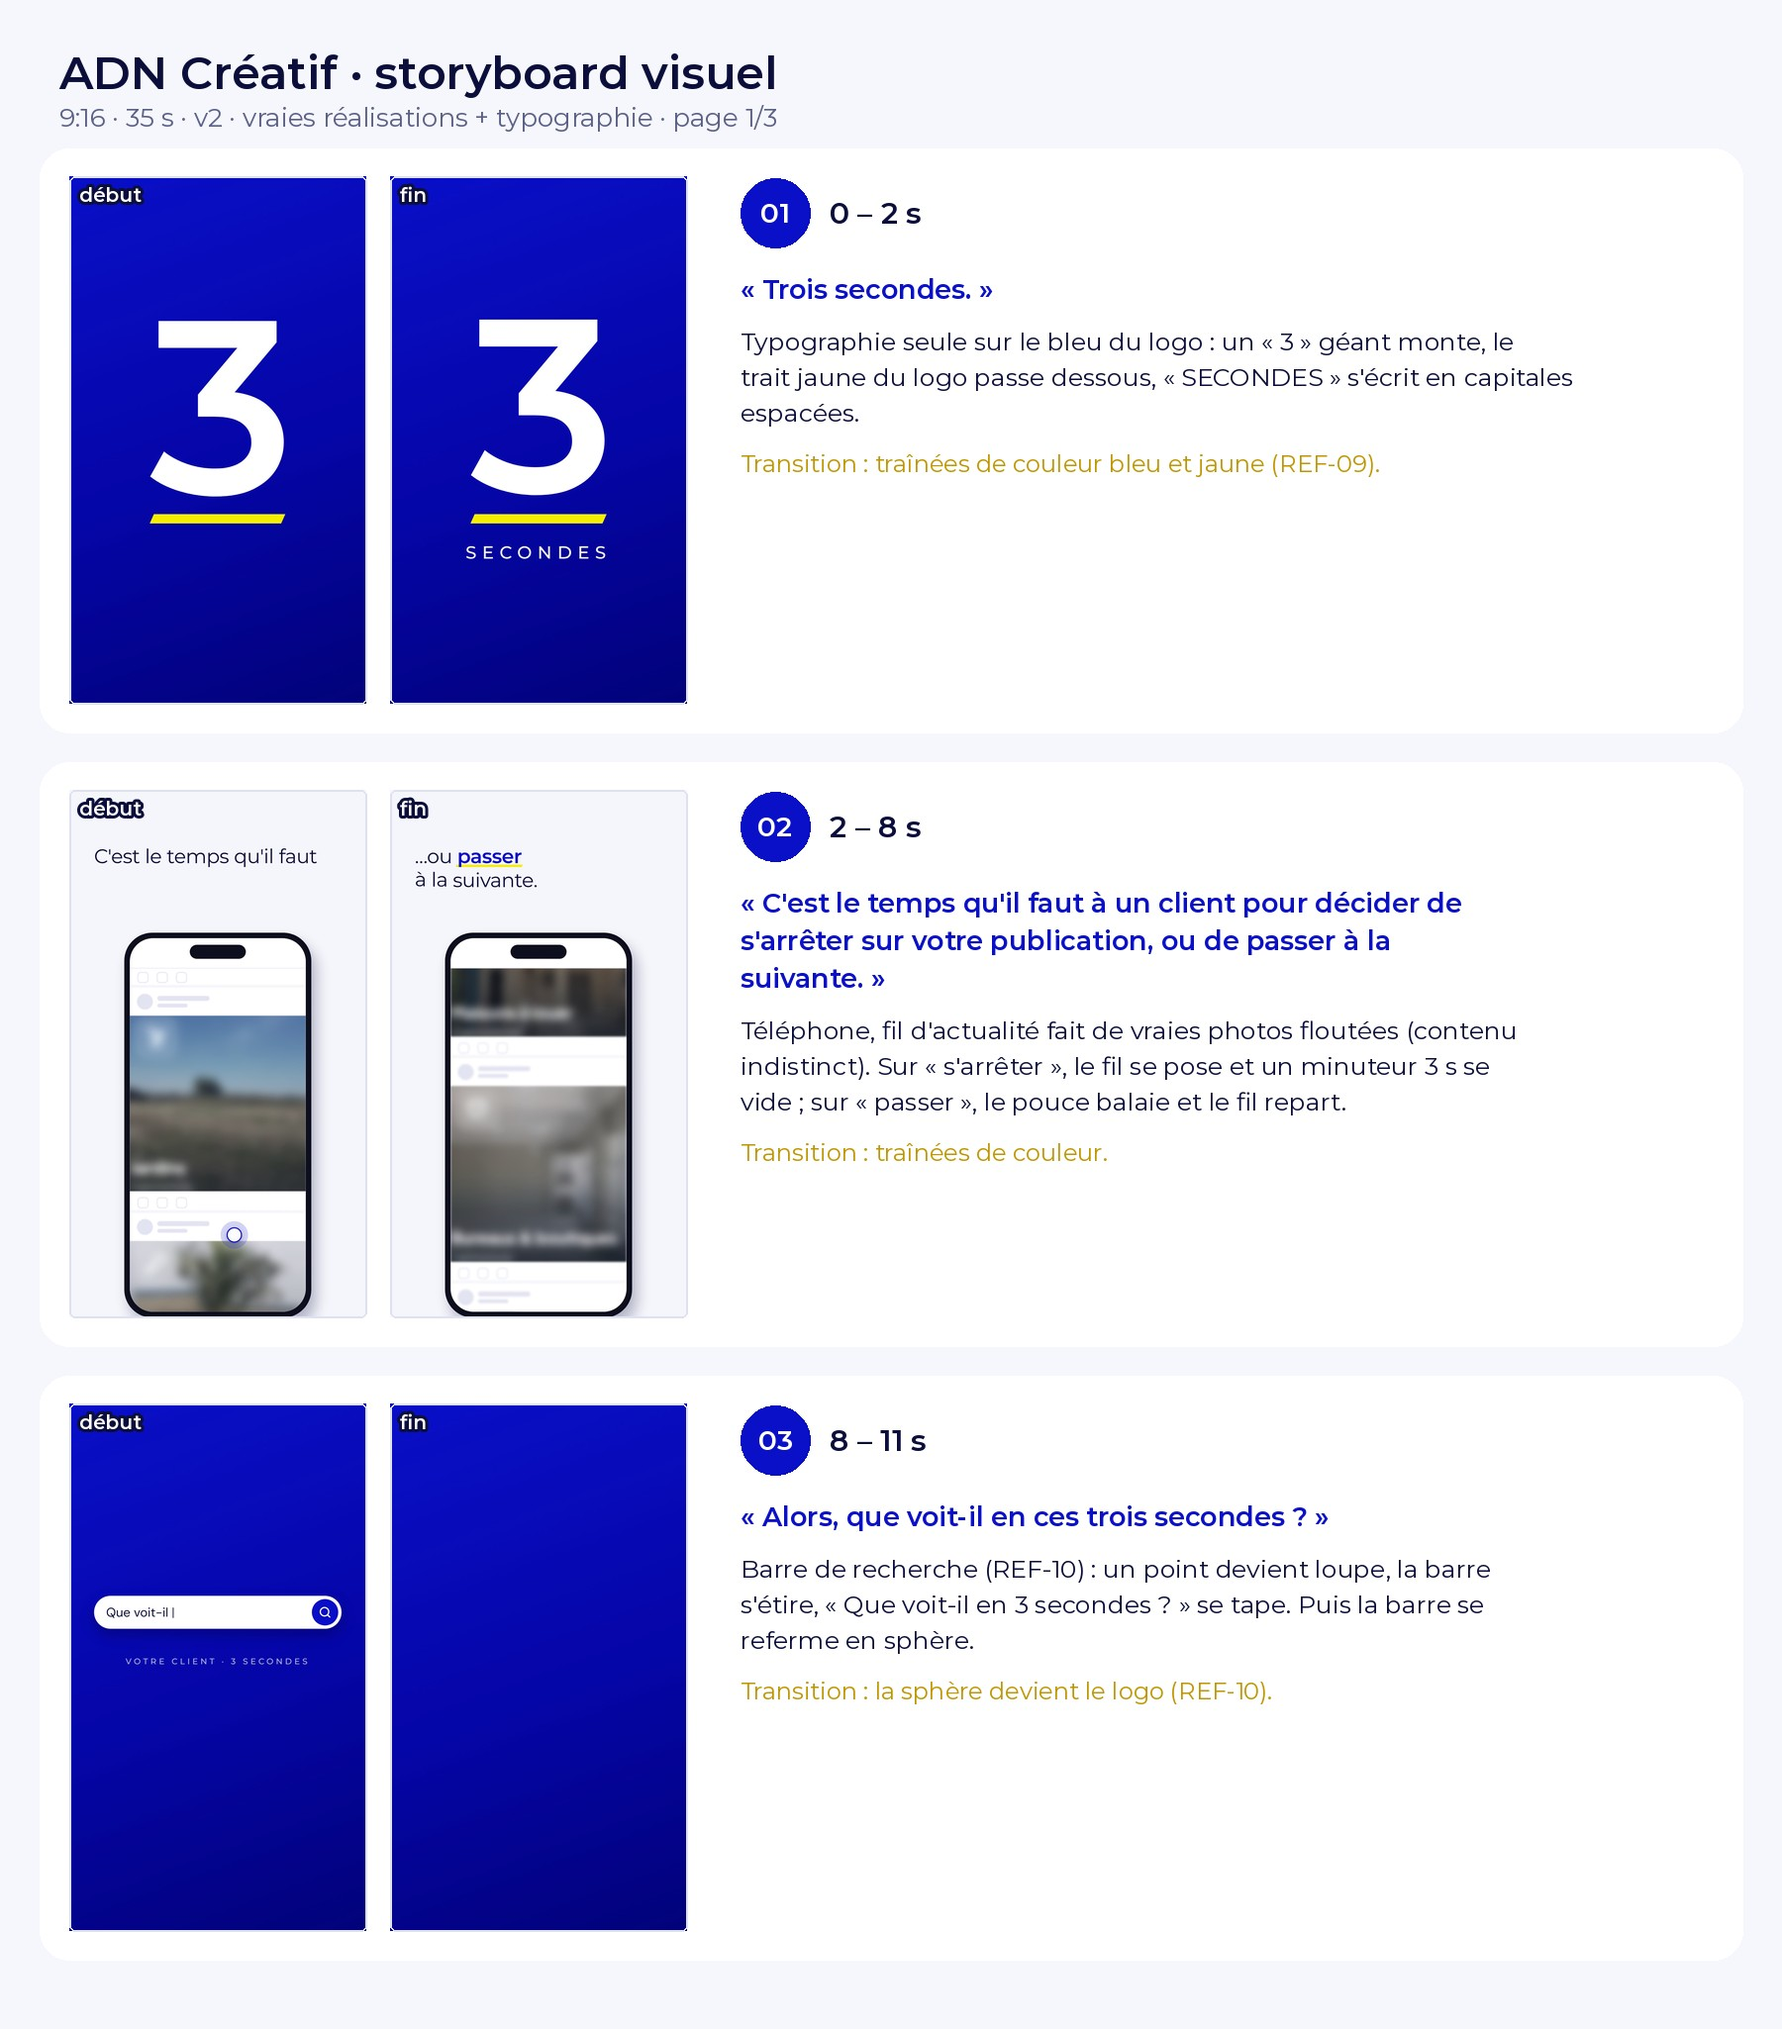
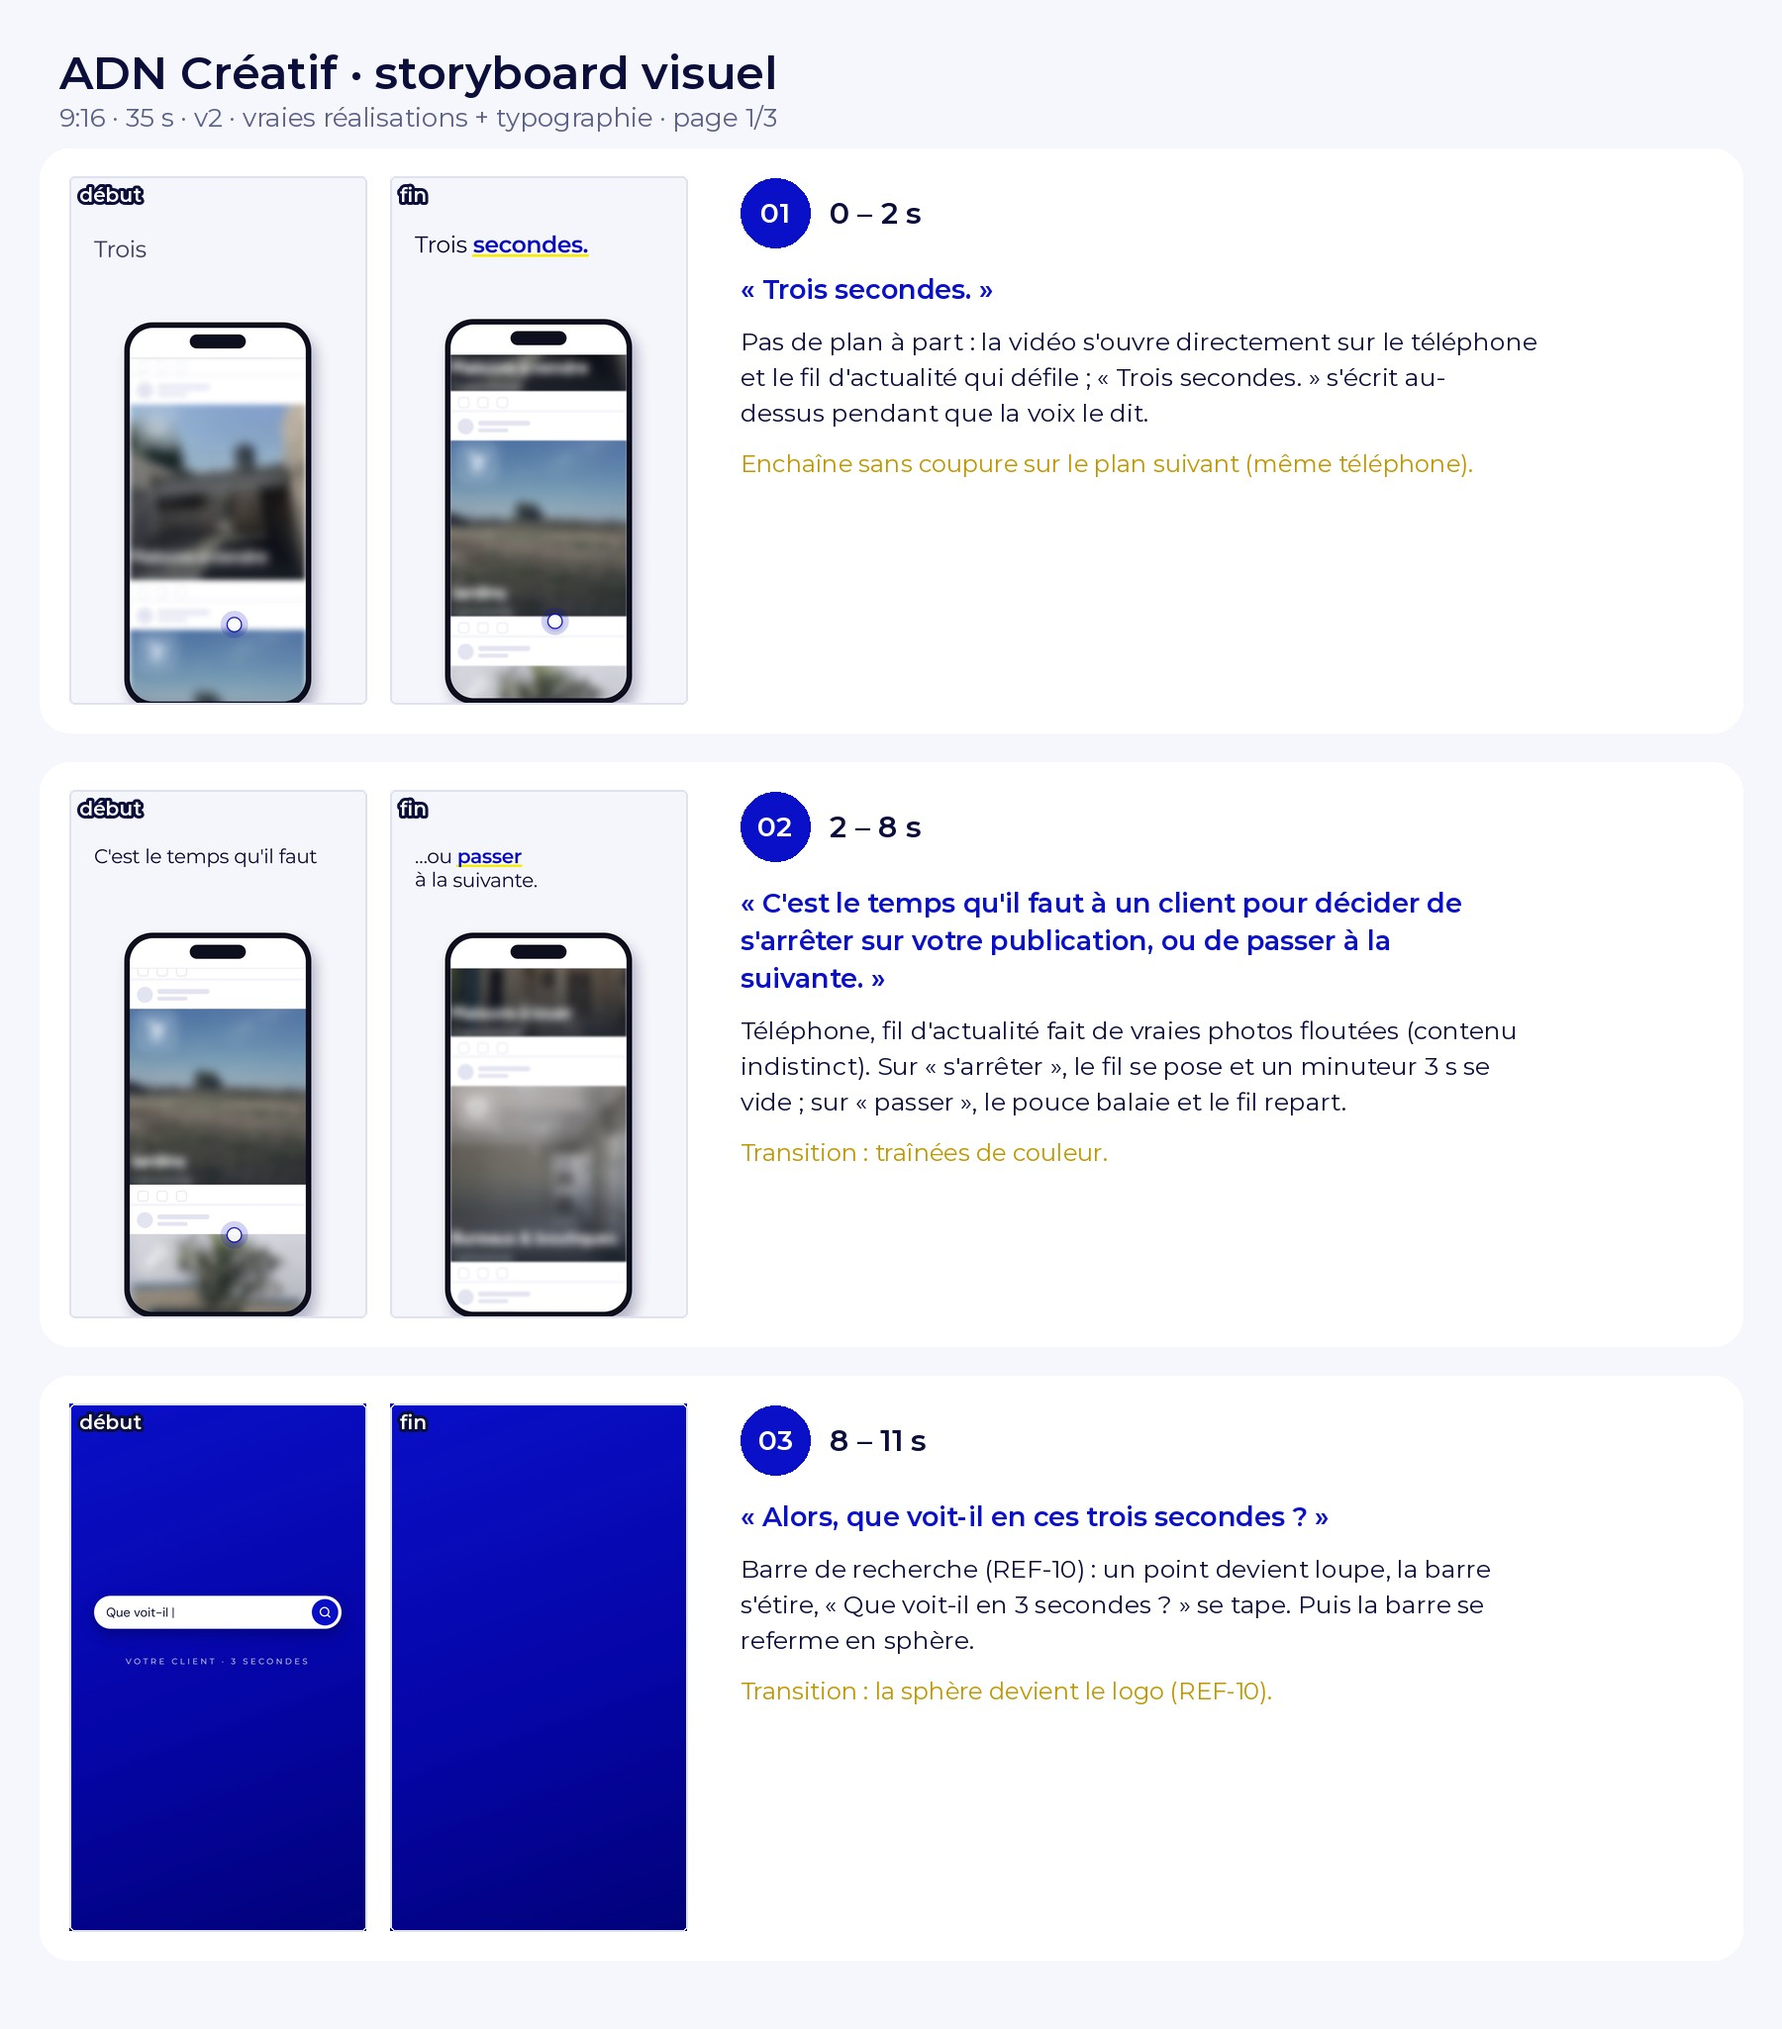
ADN Créatif : ouverture directe sur le fil, vraies affiches ADN (plan 04 et accordéon), plus de chiffre géant
Claude-Session: https://claude.ai/code/session_01Xjhu3ogamcFfekHqPkLUiU

Changed region(s): [[0.0311, 0.0624, 0.8711, 0.3434], [0.0622, 0.5307, 0.1867, 0.6556], [0.0622, 0.4683, 0.1244, 0.4995]]

diff --git a/video/src/adn/scenes.tsx b/video/src/adn/scenes.tsx
@@ -102,8 +102,8 @@ const Name: React.FC<{ f: number; at: number; size?: number; color?: string }> =
 
 // Publication du fil : photo réelle floutée (contenu indistinct, qu'on fait défiler) ou vraie réalisation ADN.
 const POST_H = 820;
-const FeedPost: React.FC<{ w: number; img?: string; children?: React.ReactNode }> = ({ w, img, children }) => (
-  <div style={{ width: w, height: POST_H, background: C.white, borderBottom: `10px solid ${C.paper}` }}>
+const FeedPost: React.FC<{ w: number; img?: string; ratio?: number; children?: React.ReactNode }> = ({ w, img, ratio = 1, children }) => (
+  <div style={{ width: w, height: POST_H + w * (ratio - 1), background: C.white, borderBottom: `10px solid ${C.paper}` }}>
     <div style={{ display: 'flex', alignItems: 'center', gap: 16, padding: '22px 26px' }}>
       <div style={{ width: 58, height: 58, borderRadius: 58, background: C.line }} />
       <div>
@@ -111,7 +111,7 @@ const FeedPost: React.FC<{ w: number; img?: string; children?: React.ReactNode }
         <div style={{ width: 110, height: 14, borderRadius: 7, background: C.line, marginTop: 10 }} />
       </div>
     </div>
-    <div style={{ position: 'relative', width: w, height: w, overflow: 'hidden', background: C.line }}>
+    <div style={{ position: 'relative', width: w, height: w * ratio, overflow: 'hidden', background: C.line }}>
       {children ?? <Img src={staticFile(img!)} style={{ width: '100%', height: '100%', objectFit: 'cover', filter: 'blur(14px) saturate(0.55) brightness(1.08)', transform: 'scale(1.15)' }} />}
     </div>
     <div style={{ display: 'flex', gap: 30, padding: '22px 28px' }}>
@@ -146,13 +146,13 @@ const STOP_AT = 132;
 const SKIP_AT = 192;
 const feedY = (f: number) => {
   const stop = 3 * POST_H - 40;
-  if (f < STOP_AT) return t(f, CUT.feed - 6, STOP_AT, 0, 1, ease.out) * stop;
+  if (f < STOP_AT) return t(f, 0, STOP_AT, 0, 1, ease.out) * stop;
   if (f < SKIP_AT) return stop;
   return stop + t(f, SKIP_AT, SKIP_AT + 20, 0, 1, ease.inOut) * POST_H * 1.6 + Math.max(0, f - SKIP_AT - 20) * 14;
 };
 
 export const S2: React.FC<P> = ({ f }) => {
-  if (f < CUT.feed - 2 || f > CUT.question + 2) return null;
+  if (f > CUT.question + 2) return null;
   const pw = 680;
   const sw = pw * 0.94;
   const y = feedY(f);
@@ -161,9 +161,10 @@ export const S2: React.FC<P> = ({ f }) => {
   const swipe = t(f, SKIP_AT - 4, SKIP_AT + 8);
   return (
     <AbsoluteFill style={{ background: C.paper }}>
+      <Title f={f} top={200} size={84} out={v(1.05)} lines={[{ text: 'Trois *secondes.*', at: v(0.1) }]} />
       <Title f={f} top={200} size={72} out={SKIP_AT - 8} lines={[{ text: "C'est le temps qu'il faut", at: v(1.45) }, { text: 'pour *s’arrêter*…', at: STOP_AT - 8 }]} />
       <Title f={f} top={200} size={72} lines={[{ text: '…ou *passer*', at: SKIP_AT }, { text: 'à la suivante.', at: SKIP_AT + 12 }]} />
-      <div style={{ position: 'absolute', left: W / 2 - pw / 2, top: 520 + (1 - sp(f, CUT.feed - 4, 'doux')) * 900 }}>
+      <div style={{ position: 'absolute', left: W / 2 - pw / 2, top: 520 + (1 - sp(f, 0, 'doux')) * 900 }}>
         <Phone w={pw}>
           <div style={{ position: 'absolute', left: 0, top: 110 - y, filter: `blur(${Math.min(10, vel * 0.25)}px)` }}>
             {FEED.map((img, i) => (
@@ -181,7 +182,7 @@ export const S2: React.FC<P> = ({ f }) => {
             </div>
           ) : null}
         </Phone>
-        <Touch x={pw / 2 + 60} y={1100 - swipe * 420} press={f >= STOP_AT && f < SKIP_AT ? 1 : swipe} visible={t(f, CUT.feed, CUT.feed + 8) * (1 - t(f, SKIP_AT + 10, SKIP_AT + 16))} />
+        <Touch x={pw / 2 + 60} y={1100 - swipe * 420} press={f >= STOP_AT && f < SKIP_AT ? 1 : swipe} visible={t(f, 6, 14) * (1 - t(f, SKIP_AT + 10, SKIP_AT + 16))} />
       </div>
     </AbsoluteFill>
   );
@@ -219,7 +220,7 @@ const HOLD = v(14.4);
 export const S4: React.FC<P> = ({ f }) => {
   if (f < CUT.logo - 12 || f > CUT.services + 2) return null;
   const up = t(f, BUILD - 14, BUILD + 4, 0, 1, ease.inOut);
-  const phoneIn = sp(f, HOLD - 18, 'doux');
+  const phoneIn = sp(f, BUILD + 20, 'doux');
   const hold = sp(f, HOLD, 'pose');
   const pw = 600;
   return (
@@ -230,25 +231,13 @@ export const S4: React.FC<P> = ({ f }) => {
       <div style={{ position: 'absolute', left: interpolate(up, [0, 1], [540 - 300, 240]), top: interpolate(up, [0, 1], [1060, 145]), transform: `scale(${interpolate(up, [0, 1], [1, 0.8])})`, transformOrigin: 'left top' }}>
         <Name f={f} at={CUT.logo + 12} size={100} />
       </div>
-      {/* mot géant (REF-09) : « 3 SECONDES » qu'on fabrique */}
-      <div style={{ position: 'absolute', left: 90, top: 340, fontFamily: FONT.title, color: C.white, opacity: 1 - t(f, HOLD - 16, HOLD - 6) }}>
-        <div style={{ fontSize: 56, fontWeight: 400 }}>
-          <Typed f={f} at={BUILD} text="On fabrique ces" step={1.4} caret={false} />
-        </div>
-        <div style={{ display: 'flex', alignItems: 'baseline', gap: 26, marginTop: 10 }}>
-          <span style={{ fontSize: 330, fontWeight: 600, lineHeight: 1, display: 'inline-block', transform: `translateY(${(1 - sp(f, BUILD + 20, 'pose')) * 200}px)`, opacity: t(f, BUILD + 20, BUILD + 26) }}>3</span>
-          <span style={{ fontSize: 110, fontWeight: 600, letterSpacing: -2, position: 'relative' }}>
-            <Typed f={f} at={BUILD + 26} text="secondes" step={1.6} caret={false} />
-            <span style={{ position: 'absolute', left: 0, bottom: 6, height: 14, width: `${t(f, BUILD + 36, BUILD + 50) * 100}%`, background: C.yellow, transform: 'skewX(-20deg)', zIndex: -1 }} />
-          </span>
-        </div>
-      </div>
+      <Title f={f} onBlue top={330} size={70} out={HOLD + 60} lines={[{ text: 'On fabrique', at: BUILD }, { text: 'ces *3 secondes*', at: BUILD + 9 }]} />
       {/* la vraie réalisation ADN dans le fil : le spot Gestion Chantiers arrête le pouce */}
-      <div style={{ position: 'absolute', left: W / 2 - pw / 2, top: 560 + (1 - phoneIn) * 1500 }}>
+      <div style={{ position: 'absolute', left: W / 2 - pw / 2, top: 600 + (1 - phoneIn) * 1500 }}>
         <Phone w={pw}>
           <div style={{ position: 'absolute', left: 0, top: 110 }}>
-            <FeedPost w={pw * 0.94}>
-              {f >= HOLD - 20 ? <OffthreadVideo src={staticFile('adn/spot-gc.mp4')} startFrom={30} muted style={{ width: '100%', height: '100%', objectFit: 'cover' }} /> : <div />}
+            <FeedPost w={pw * 0.94} ratio={1.25}>
+              <Img src={staticFile('adn/affiche-1.jpg')} style={{ width: '100%', height: '100%', objectFit: 'cover' }} />
             </FeedPost>
             <FeedPost w={pw * 0.94} img="adn/feed-2.jpg" />
           </div>
@@ -276,7 +265,7 @@ const RECAP = v(19.4) + 30;
 const Volet: React.FC<{ i: number; f: number }> = ({ i, f }) => {
   if (i === 0) {
     // affiches Gestion Chantiers qui se succèdent
-    const imgs = ['gc-S1.jpg', 'gc-S4.jpg', 'gc-S10.jpg'];
+    const imgs = ['affiche-2.jpg', 'affiche-4.jpg', 'affiche-1.jpg'];
     const k = Math.min(2, Math.max(0, Math.floor((f - SVC[0].at) / 16)));
     return (
       <AbsoluteFill>

diff --git a/video/src/adn/Adn.tsx b/video/src/adn/Adn.tsx
@@ -1,13 +1,12 @@
 // Spot ADN Créatif 9:16 (≈ 35 s) sur la voix off validée « 3 secondes ».
 import { AbsoluteFill, Audio, Sequence, staticFile, useCurrentFrame } from 'remotion';
-import { S1, S2, S3, S4, S5, S6, S7, S8, Streaks } from './scenes';
+import { S2, S3, S4, S5, S6, S7, S8, Streaks } from './scenes';
 import { C, CUT, VOICE_AT } from './theme';
 
 export const Adn = () => {
   const f = useCurrentFrame();
   return (
     <AbsoluteFill style={{ background: C.paper }}>
-      <S1 f={f} />
       <S2 f={f} />
       <S3 f={f} />
       <S4 f={f} />
@@ -16,7 +15,7 @@ export const Adn = () => {
       <S7 f={f} />
       <S8 f={f} />
       {/* traînées de couleur (REF-09) sur les changements de plan bleu ↔ blanc */}
-      {[CUT.feed, CUT.question, CUT.achat, CUT.fin].map((at) => (
+      {[CUT.question, CUT.achat, CUT.fin].map((at) => (
         <Streaks key={at} f={f} at={at} />
       ))}
       <Sequence from={VOICE_AT}>

diff --git a/video/scripts/storyboard_adn.py b/video/scripts/storyboard_adn.py
@@ -14,8 +14,8 @@ BLUE, YEL, INK, GREY = (10, 16, 200), (190, 150, 0), (11, 14, 58), (90, 95, 134)
 
 SCENES = [
     ('01', '0 – 2 s', (20, 50), '« Trois secondes. »',
-     'Typographie seule sur le bleu du logo : un « 3 » géant monte, le trait jaune du logo passe dessous, « SECONDES » s\'écrit en capitales espacées.',
-     'Transition : traînées de couleur bleu et jaune (REF-09).'),
+     'Pas de plan à part : la vidéo s\'ouvre directement sur le téléphone et le fil d\'actualité qui défile ; « Trois secondes. » s\'écrit au-dessus pendant que la voix le dit.',
+     'Enchaîne sans coupure sur le plan suivant (même téléphone).'),
     ('02', '2 – 8 s', (100, 215), "« C'est le temps qu'il faut à un client pour décider de s'arrêter sur votre publication, ou de passer à la suivante. »",
      'Téléphone, fil d\'actualité fait de vraies photos floutées (contenu indistinct). Sur « s\'arrêter », le fil se pose et un minuteur 3 s se vide ; sur « passer », le pouce balaie et le fil repart.',
      'Transition : traînées de couleur.'),
@@ -23,10 +23,10 @@ SCENES = [
      'Barre de recherche (REF-10) : un point devient loupe, la barre s\'étire, « Que voit-il en 3 secondes ? » se tape. Puis la barre se referme en sphère.',
      'Transition : la sphère devient le logo (REF-10).'),
     ('04', '11 – 17 s', (360, 470), '« Chez ADN Créatif, nous fabriquons ces trois secondes de sorte à faire arrêter votre potentiel client. »',
-     'Logo en couches (REF-09) : le A apparaît, le trait jaune glisse, étincelle et reflet ; « ADN Créatif » se tape. « On fabrique ces 3 secondes » en typographie géante. Puis le fil revient avec un vrai spot ADN (Gestion Chantiers) : le pouce s\'arrête, pastille « Arrêté ».',
+     'Logo en couches (REF-09) : le A apparaît, le trait jaune glisse, étincelle et reflet ; « ADN Créatif » se tape. « On fabrique ces 3 secondes » s\'écrit (texte fin, pas de chiffre géant), et le fil revient avec une vraie affiche ADN (« Le Procès de Noël ») : le pouce s\'arrête, pastille « Arrêté ».',
      'Transition : cercle qui grandit depuis le centre (REF-10).'),
     ('05', '17 – 23 s', (540, 690), "« Des visuels de communication, des spots publicitaires et des sites qui arrêtent le regard, et qui donnent envie d'en savoir plus. »",
-     'Accordéon de services (REF-10) avec vos vraies réalisations : affiches Gestion Chantiers, spot Lyna-Transfert qui joue, site Tchad Immobilier, puis un second site (parties sans le nom du client) qui défilent ; le volet actif s\'ouvre, son nom se tape. Puis tous les volets s\'égalisent et « En savoir plus » est cliqué.',
+     'Accordéon de services (REF-10) avec vos vraies réalisations : vos affiches (Miss N\'Djamena, Design graphique & montage vidéo, Le Procès de Noël), spot Lyna-Transfert qui joue, site Tchad Immobilier, puis un second site (parties sans le nom du client) qui défilent ; le volet actif s\'ouvre, son nom se tape. Puis tous les volets s\'égalisent et « En savoir plus » est cliqué.',
      'Transition : traînées de couleur.'),
     ('06', '23 – 26 s', (740, 790), "« Parce qu'un client qui s'arrête est un client qui peut acheter. »",
      'Typographie seule : « Un client qui » puis le mot géant « s\'arrête », qui roule et devient « achète » (roue de mots, REF-03/09/10), souligné du trait jaune.',
